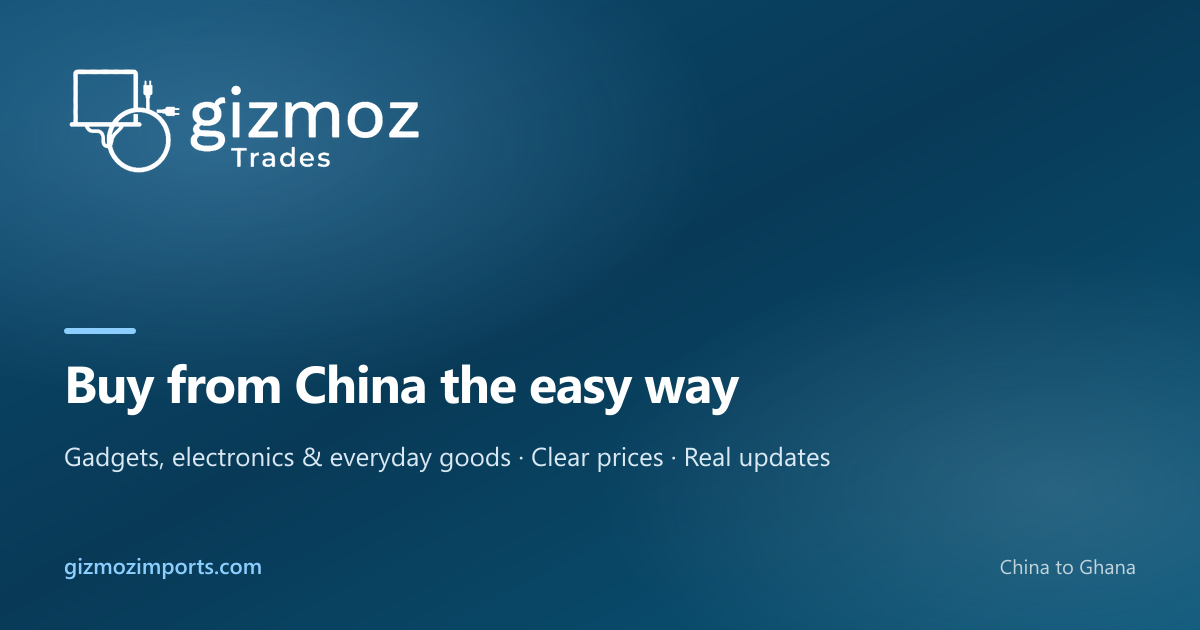
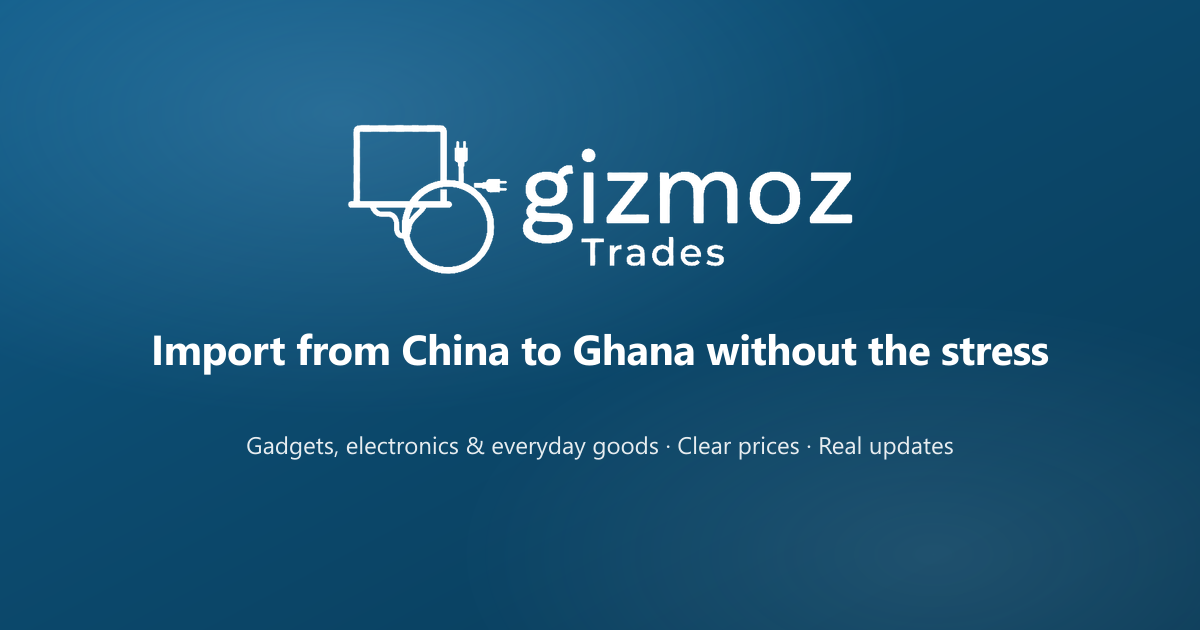
Match WhatsApp share card structure with Soft Ocean colours

diff --git a/app/opengraph-image.tsx b/app/opengraph-image.tsx
@@ -20,96 +20,81 @@ export default async function Image() {
           height: '100%',
           display: 'flex',
           flexDirection: 'column',
-          justifyContent: 'space-between',
-          padding: '56px 64px',
-          background: 'linear-gradient(135deg, #0C4A6E 0%, #083A57 48%, #0A5578 100%)',
+          alignItems: 'center',
+          justifyContent: 'center',
+          background: 'linear-gradient(135deg, #0E5A86 0%, #0C4A6E 42%, #083A57 100%)',
           color: '#fff',
           fontFamily: 'system-ui, sans-serif',
           position: 'relative',
+          padding: '48px 64px',
         }}
       >
-        {/* Soft Light Blue wash — brand mesh feel (Satori-safe, no filters) */}
         <div
           style={{
             position: 'absolute',
-            top: -120,
-            left: -80,
-            width: 480,
-            height: 480,
+            top: -100,
+            left: -40,
+            width: 460,
+            height: 460,
             borderRadius: 999,
-            background: 'rgba(140, 207, 255, 0.2)',
+            background: 'rgba(140, 207, 255, 0.18)',
           }}
         />
-        <div
-          style={{
-            position: 'absolute',
-            bottom: -140,
-            right: -60,
-            width: 420,
-            height: 420,
-            borderRadius: 999,
-            background: 'rgba(234, 246, 255, 0.1)',
-          }}
-        />
-
-        <div style={{ display: 'flex', alignItems: 'center', position: 'relative' }}>
-          {/* eslint-disable-next-line @next/next/no-img-element */}
-          <img
-            src={logoSrc}
-            width={280}
-            height={101}
-            style={{ objectFit: 'contain' }}
-            alt=""
-          />
-        </div>
-
-        <div style={{ display: 'flex', flexDirection: 'column', gap: 18, position: 'relative' }}>
-          <div
-            style={{
-              display: 'flex',
-              width: 72,
-              height: 6,
-              background: '#8CCFFF',
-              borderRadius: 4,
-            }}
-          />
-          <div
-            style={{
-              display: 'flex',
-              fontSize: 52,
-              fontWeight: 700,
-              letterSpacing: '-0.03em',
-              lineHeight: 1.1,
-              maxWidth: 960,
-            }}
-          >
-            Buy from China the easy way
-          </div>
-          <div
-            style={{
-              display: 'flex',
-              fontSize: 26,
-              color: '#EAF6FF',
-              maxWidth: 900,
-              lineHeight: 1.35,
-              opacity: 0.92,
-            }}
-          >
-            Gadgets, electronics &amp; everyday goods · Clear prices · Real updates
-          </div>
-        </div>
 
         <div
           style={{
             display: 'flex',
-            justifyContent: 'space-between',
+            flexDirection: 'column',
             alignItems: 'center',
-            fontSize: 22,
+            justifyContent: 'center',
+            gap: 36,
             position: 'relative',
           }}
         >
-          <span style={{ color: '#8CCFFF', fontWeight: 600 }}>gizmozimports.com</span>
-          <span style={{ color: 'rgba(255,255,255,0.72)', fontWeight: 500 }}>China to Ghana</span>
+          {/* eslint-disable-next-line @next/next/no-img-element */}
+          <img
+            src={logoSrc}
+            width={420}
+            height={151}
+            style={{ objectFit: 'contain' }}
+            alt=""
+          />
+
+          <div
+            style={{
+              display: 'flex',
+              flexDirection: 'column',
+              alignItems: 'center',
+              gap: 18,
+              textAlign: 'center',
+            }}
+          >
+            <div
+              style={{
+                display: 'flex',
+                fontSize: 42,
+                fontWeight: 700,
+                letterSpacing: '-0.02em',
+                lineHeight: 1.2,
+                textAlign: 'center',
+                maxWidth: 980,
+              }}
+            >
+              Import from China to Ghana without the stress
+            </div>
+            <div
+              style={{
+                display: 'flex',
+                fontSize: 24,
+                color: 'rgba(255,255,255,0.9)',
+                textAlign: 'center',
+                maxWidth: 920,
+                lineHeight: 1.35,
+              }}
+            >
+              Gadgets, electronics &amp; everyday goods · Clear prices · Real updates
+            </div>
+          </div>
         </div>
       </div>
     ),

diff --git a/lib/seo.ts b/lib/seo.ts
@@ -77,10 +77,10 @@ export const SEO = {
     ],
   },
 
-  /** `/og/share.png` — Soft Ocean card; new filename so WhatsApp/Facebook re-fetch. */
-  defaultOgImagePath: `${SITE_URL}/og/share.png`,
+  /** `/og/preview.png` — centered Soft Ocean card (WhatsApp structure). New path busts cache. */
+  defaultOgImagePath: `${SITE_URL}/og/preview.png`,
   ogImages: {
-    default: '/og/share.png',
+    default: '/og/preview.png',
     twitter: '/og/twitter.png',
     square: '/og/square.png',
     buyRmb: '/og/buy-rmb.png',
